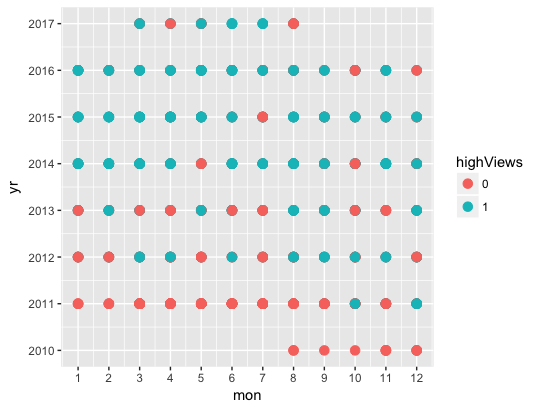
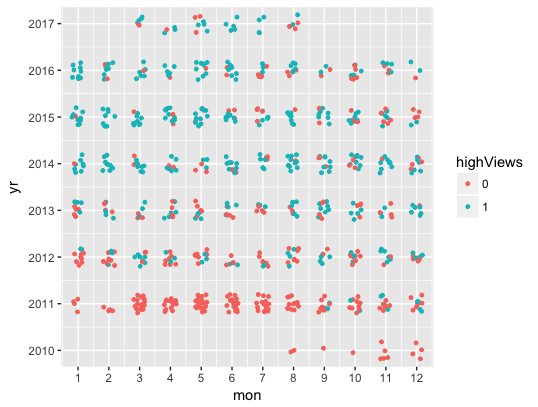
Second commit

diff --git a/post/blogpost.md b/post/blogpost.md
@@ -103,8 +103,8 @@ The data frame `all_recipes_df` contains all the recipes on the blog and has the
 
 The code for The Full Helping is significantly different, and the returned data frame does not have the same fields. I will not dicsuss it here on the post, but the code is included in the repository for interested readers. 
 
-## Exploratory Analysis
-Now that we have the collected all the recipes, we can do some exploration. First, let's see which words are most common in the recipes. We will make use of the `tidytext` and `tokenizers` packages for this task. The `ingredients` field contains a flat text file with each line ending with "\n". So our task is to split the text, remove any leftover html tags, and then convert the data frame in long format. What is meant with the long format is that each column will contain one word, so a ringle recipe is spread into multiple columns, whose size is determined by the number of words in the ingredients. This is achieved by the following code snippet
+## Data Wrangling Exploratory Analysis
+Now that we have the collected all the recipes, we can do some exploration. First, let's see which words are most common in the recipes. We will make use of the `tidytext` and `tokenizers` packages for this task. The `ingredients` field contains a flat text file with each line ending with "\n". So our task is to split the text, remove any leftover html tags, and then convert the data frame in long format. What is meant with the long format is that each row will contain one word, so a ringle recipe is spread into multiple rows, whose size is determined by the number of words in the ingredients. This is achieved by the following code snippet
 
 ```r
 # Assing and ID number to each recipe
@@ -149,9 +149,115 @@ df_ingrdt <- df_ingrdt %>%
   filter(!(str_detect(word, "[0-9]")))  # Remove numbers as well
 ```
 
-After this step, we have a much better looking data frame. The wordcloud from all the ingredients look lik
+After this step, we have a much better looking data frame. The wordcloud from all the ingredients looks like
 
 ![title](img/wordcloud.png)
 
-Now ...
+Let's also look at how words in all the recipes are associated with each other. Certain words would tend to cluster in certain types of recipes, for example one would expect to see sugar, flour and baking in a given recipe, but not garlic and chocolate (hopefully!). So let's perform a few steps of data wrangling to visualize how words are distributed. 
 
+Firts let us simply reduce the number of words by limiting to the top 25
+
+```r
+top_words <- df_ingrdt %>% count(word, sort = TRUE) %>% slice(1:25)
+df_ingrdt <-df_ingrdt %>%
+  filter(word %in% top_words$word)
+```
+
+Now, we can use the `spread` function to spread the rows into columns, where there is one row for each recipe and words are columns containing the number of times they appear.
+
+```r
+df_ingrdt <- df_ingrdt %>% 
+  group_by(ID) %>%
+  count(word) %>%
+  spread(key = word, value = n, fill = 0) %>%
+  ungroup()
+```
+
+This is how `df_ingrdt` look like now:
+
+```
+##      ID baking brown butter cheese chicken chopped cloves cream flour
+##   <int>  <dbl> <dbl>  <dbl>  <dbl>   <dbl>   <dbl>  <dbl> <dbl> <dbl>
+## 1     1      0     0      0      0       0       4      1     0     0
+## 2     2      0     0      0      0       1       1      0     0     0
+## 3     3      0     0      0      0       0       0      0     0     0
+## 4     4      0     2      0      0       0       2      1     0     0
+## 5     5      0     0      1      0       0       0      0     0     0
+## 6     6      0     1      0      1       0       0      1     0     1
+## # ... with 16 more variables: fresh <dbl>, garlic <dbl>, juice <dbl>,
+## #   milk <dbl>, minced <dbl>, oil <dbl>, olive <dbl>, pepper <dbl>,
+## #   powder <dbl>, salt <dbl>, sauce <dbl>, shredded <dbl>, sugar <dbl>,
+## #   taste <dbl>, used <dbl>, water <dbl>
+```
+
+The number of words appearing in a given recipe is not really what I we are looking for. Rather, we want to know whether a word appears in the ingredients or not. So, let’s process a bit further by
+
+```r
+vars <- setdiff(names(df_ingrdt), "ID")
+df_ingrdt <- df_ingrdt %>%
+  mutate_at(vars, function(x) ifelse(x > 0, 1, 0))
+```
+
+As a result, we obtain a table with one-hot encoded words for each recipe. Let's construct the [principal component](https://en.wikipedia.org/wiki/Principal_component_analysis) vectors, and use the first two to visulaize the data
+
+```r
+## Principal components for ingredients
+data <- df_ingrdt %>% select(-ID)
+pc <- prcomp(data, scale = TRUE)
+
+# Plot the first two principal components
+biplot(pc, scale = FALSE, cex = c(0.2, 0.8) )
+```
+
+![title](img/PCA_ingredients.png)
+
+The x and y axes are the first two principal component vetors, and each red vector correspond to the projection of the associated word on these principal component vectors. The plot shows which words tend to be close to each other and provide some insights on the recipes:
+
+* Ingredient vectors used in baking tend to be close to each other (milk, sugar, butter, flour etc.)
+* Cheese, slice and shredded are close to each other (for obvious reasons)
+* Garlic, minced, cloves, olive, oil are close to each other
+* All of these groups of vectors point along different directions
+
+We can perform a similar exercise for the `description` field as well, and it leads to similar results. 
+
+## Inference
+
+Now that we have gone through all this trouble and scraping and tidying the data, let's try to experiment with predictive algorithms. We can devide to go in several avenues here, but there are several issues here. One is temped to use the data for predicting ratings, however this is a bit problematic once we look at their distribution
+
+![title](img/ratinghistogram.png)
+
+Most of the ratings are all 5 stars! This is not a surprise, since individual food blogs tend to have a relatively small following and the followers are those who enjoy the recipes so they rate them high. Instead, let's split look at number of reviews and assign recipes with number of reviews higher than the median (which is 9 at the time) as `high` and smaller than the median as `low`. This is a much more balanced target to predict (actually, it is almost 50/50 high-low ratio since we use the median). 
+
+Instead of the ingredients, let's look at how the name of the recipe effects whether it is rated a large number of times. We perform the same exercise as above (use the `name` field instead of `ingredients`), which you can find in the repository. We end up with a data frame whose first entries are as follows:
+
+```
+  ID highViews mon   yr     word
+1  1         1   8 2017     best
+2  1         1   8 2017    detox
+3  1         1   8 2017 broccoli
+4  1         1   8 2017    chees
+5  1         1   8 2017     soup
+6  2         1   8 2017 cheater'
+```
+The `ID` is the unique identifier of a recipe, `highViews` is 1 for recipes that are rated more than 9 times (i.e. the median), `yr` and `mon` are the year and month when the recipe is published and `word` is the [stem](https://en.wikipedia.org/wiki/Stemming) of the word that appears in the recipe. The next step is again spreading words to columns where each new column is either 1 or 0 (1 if the word is included in the name of the recipe, 0 otherwise). In this case, I chose the top 50 words appearing in the names of the recipes to keep in columns. Here is how the final table looks like:
+
+```
+     ID chicken salad chocol  span class    fn  sauc garlic butter potato sweet peanut creami spici  cake
+  <int>   <dbl> <dbl>  <dbl> <dbl> <dbl> <dbl> <dbl>  <dbl>  <dbl>  <dbl> <dbl>  <dbl>  <dbl> <dbl> <dbl>
+1     1       0     0      0     0     0     0     0      0      0      0     0      0      0     0     0
+2     2       0     1      0     0     0     0     0      0      0      0     0      0      0     0     0
+3     3       0     0      0     0     0     0     0      0      0      0     0      0      0     0     0
+4     4       0     0      0     0     0     0     0      0      0      0     0      0      0     0     0
+5     5       0     0      0     0     0     0     0      0      0      0     0      0      0     0     0
+6     6       0     0      0     0     0     0     0      0      0      0     0      0      0     0     0
+# ... with 39 more variables: chees <dbl>, roast <dbl>, minut <dbl>, bake <dbl>, bowl <dbl>, rice <dbl>,
+#   cooki <dbl>, healthi <dbl>, muffin <dbl>, curri <dbl>, bar <dbl>, caramel <dbl>, coconut <dbl>,
+#   soup <dbl>, appl <dbl>, cinnamon <dbl>, dress <dbl>, easi <dbl>, lemon <dbl>, pumpkin <dbl>,
+#   bean <dbl>, corn <dbl>, quinoa <dbl>, honei <dbl>, ingredi <dbl>, pizza <dbl>, shrimp <dbl>,
+#   tomato <dbl>, banana <dbl>, best <dbl>, lentil <dbl>, noodl <dbl>, squash <dbl>, bacon <dbl>,
+#   crockpot <dbl>, rating <dbl>, highViews <dbl>, mon <dbl>, yr <dbl>
+```
+
+Before trying a model for predicting `highViews`, let's see whether we can obtain some insights by visualizing the data. Below is a plot that shows the high and low number of ratings in each month and year:
+
+![title](img/viewsbydate.png)
